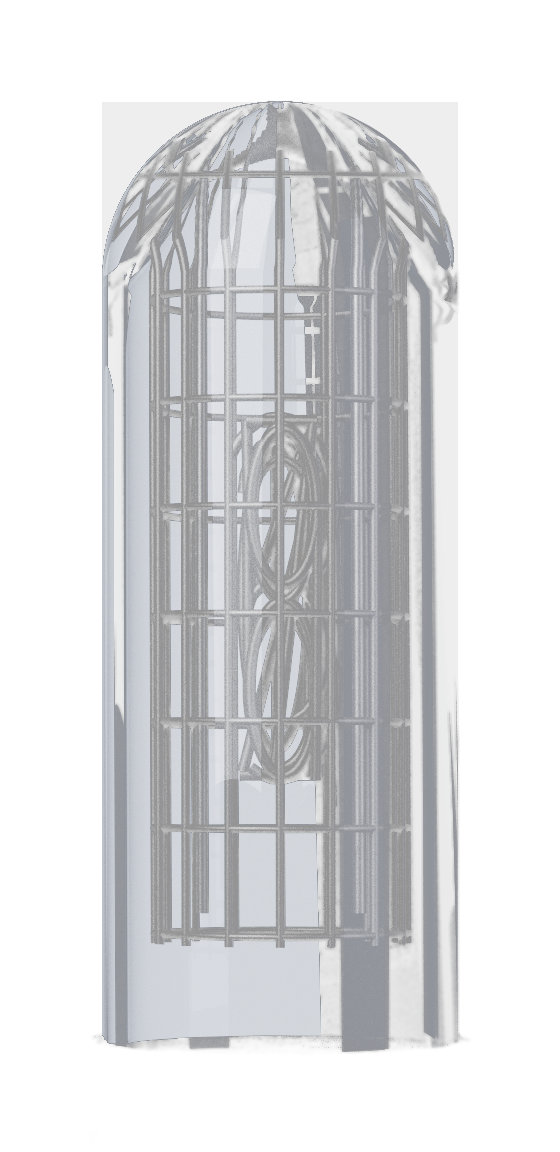
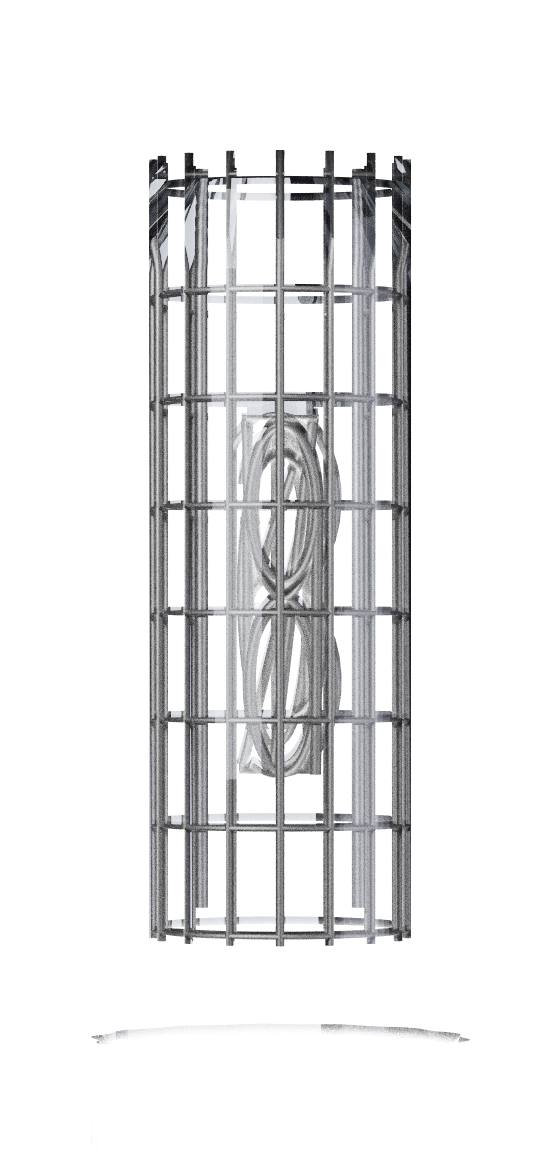
[greeter] Glass is additive, metal is opaque
Вся лампа читалась металлом, потому что альфа шла от яркости: блики стекла тоже
яркие, и они становились непрозрачными. Разделил материалы:

- nixie-tube.png — только железо (сетка, стек катодов, цоколь): обычный оверлей,
  альфа = coverage железа;
- nixie-glass.png + nixie_glass.frag — стекло аддитивно: блик это свет на панели,
  он добавляется к картинке и ничего не перекрывает, поэтому цифра за стеклом
  читается, а кромка и отражения видны;
- пассы: beauty (1024 spp), glass-only (512 spp), две плоские coverage-маски
  (64 spp); генераторы в scripts/dev/nixie-sprite/.

diff --git a/files/quickshell/greeter/lock/NixieTube.qml b/files/quickshell/greeter/lock/NixieTube.qml
@@ -104,4 +104,24 @@ source: "../assets/nixie-tube.png"
 smooth: true
 visible: !root.bulb
 }
+
+// The glass goes on top of the metal, additively: its reflections are light on
+// the pane, and light does not hide the numeral behind it the way an opaque
+// sprite would. (The sprite's alpha carries the metal only.)
+ShaderEffect {
+anchors.fill: parent
+visible: !root.bulb
+property Item source: glassLayer
+property real pStrength: 1.0
+fragmentShader: Qt.resolvedUrl("../shaders/nixie_glass.frag.qsb")
+}
+
+Image {
+id: glassLayer
+visible: false
+width: parent.width
+height: parent.height
+source: "../assets/nixie-glass.png"
+smooth: true
+}
 }

diff --git a/scripts/dev/nixie-sprite/glass_pass.py b/scripts/dev/nixie-sprite/glass_pass.py
@@ -1,0 +1,92 @@
+#!/usr/bin/env python3
+"""The glass alone, lit: the light it adds to the screen (its reflections, its rim).
+The sprite overlays it additively — a reflection adds light, it does not hide what
+is behind it, and treating it as opacity is what made the tube read as metal.
+"""
+
+import sys
+
+import numpy as np
+
+sys.path.insert(0, __file__.rsplit("/", 1)[0])
+import mitsuba as mi
+import render_tube as R
+
+mi.set_variant("llvm_ad_rgb")
+
+
+def main(out, spp=512):
+    shapes, _ = R.build()
+    scene = {
+        "type": "scene",
+        "env": {
+            "type": "constant",
+            "radiance": {"type": "rgb", "value": [0.012, 0.013, 0.017]},
+        },
+        "glass": {"type": "dielectric", "int_ior": 1.52, "ext_ior": 1.0},
+    }
+    v, f = shapes["glass"]
+    ply = R.emit_ply(v, f, "/tmp/ms/mesh/glassonly.ply")
+    scene["glassShape"] = {
+        "type": "ply",
+        "filename": ply,
+        "face_normals": False,
+        "bsdf": scene["glass"],
+    }
+
+    def softbox(origin, target, size, rad):
+        T = mi.ScalarTransform4f.look_at(
+            origin=origin, target=target, up=[0, 1, 0]
+        ) @ mi.ScalarTransform4f.scale([size[0], size[1], 1.0])
+        return {
+            "type": "rectangle",
+            "to_world": T,
+            "emitter": {
+                "type": "area",
+                "radiance": {"type": "rgb", "value": rad},
+            },
+        }
+
+    scene["key"] = softbox(
+        [-120, 150, 210], [0, 0, 0], [90, 130], [7.0, 7.3, 7.8]
+    )
+    scene["fill"] = softbox(
+        [190, 40, 120], [0, 0, 0], [70, 110], [2.0, 2.1, 2.4]
+    )
+    scene["rim"] = softbox(
+        [-60, -40, -170], [0, 0, 0], [80, 120], [1.8, 1.9, 2.2]
+    )
+    scene["sensor"] = {
+        "type": "perspective",
+        "fov": 2 * np.degrees(np.arctan((R.MM_W / 2) / 300.0)),
+        "fov_axis": "x",
+        "to_world": mi.ScalarTransform4f.look_at(
+            origin=[0, 0, 300], target=[0, 0, 0], up=[0, 1, 0]
+        ),
+        "film": {
+            "type": "hdrfilm",
+            "width": 560,
+            "height": 1152,
+            "pixel_format": "rgb",
+            "component_format": "float32",
+            "rfilter": {"type": "box"},
+        },
+        "sampler": {"type": "multijitter", "sample_count": spp},
+    }
+    scene["integrator"] = {
+        "type": "path",
+        "max_depth": 8,
+        "hide_emitters": True,
+    }
+    img = np.array(mi.render(mi.load_dict(scene), spp=spp, seed=5))
+    np.save(out, img)
+    print(
+        "glass pass:",
+        out,
+        img.shape,
+        "mean %.3f max %.2f" % (img.mean(), img.max()),
+    )
+
+
+if __name__ == "__main__":
+    main(sys.argv[1])

diff --git a/scripts/dev/nixie-sprite/post.py b/scripts/dev/nixie-sprite/post.py
@@ -2,9 +2,11 @@
 render, the alpha from the geometry (the sprite is an overlay, so its interior has
 to stay transparent enough for the discharge behind it to read)."""
 
-import numpy as np
 import math
+import os
 import sys
+
+import numpy as np
 from PIL import Image
 
 W, HH = 560, 1152
@@ -185,20 +187,45 @@ def main(beauty, out, exposure=0.55):
     )
     lum = 0.3 * rgb[..., 0] + 0.6 * rgb[..., 1] + 0.1 * rgb[..., 2]
 
-    # The alpha comes from what the render actually shows: a pixel the tube adds
-    # light to is a pixel that hides what is behind it. That is smooth by
-    # construction — no analytic bands to cut through the picture — and it keeps
-    # the sprite's one job: the bright metal and the glass's rim are opaque, the
-    # dark glass is not, so the discharge behind it reads through.
-    al = np.clip(1.0 - np.exp(-3.0 * lum), 0.0, 0.95)
-    # the envelope itself is a little opaque even where it is dark: glass is
-    # something you see, not nothing
-    al = np.maximum(al, glass * 0.07)
+    # The alpha is per material, from two flat coverage passes: the metal (wires,
+    # cage, collar) is opaque, the glass is not. Modulating the glass by its own
+    # brightness keeps its reflections readable while its body stays clear — a
+    # brightness-based alpha alone turned the glass into more metal.
+    hw = (
+        np.load(beauty + "_hw.npy")
+        if os.path.exists(beauty + "_hw.npy")
+        else np.zeros_like(lum)
+    )
+    # The metal: an ordinary overlay, opaque where it is.
+    al = np.clip(hw, 0.0, 0.97)
     img = np.clip(rgb, 0, 1)
     Image.fromarray(
         (np.concatenate([img, al[..., None]], -1) * 255).astype("uint8"),
         "RGBA",
     ).save(out)
+    # The glass, additive: a reflection adds light, it does not hide the numeral
+    # behind it. Treating it as opacity is exactly what made the tube read as metal.
+    gp = np.load("/tmp/ms/glass.npy")
+    gp = np.maximum(gp, 0.0)
+    g = aces(gp * exposure)
+    g = np.where(
+        g <= 0.0031308,
+        g * 12.92,
+        1.055 * np.power(np.maximum(g, 1e-6), 1 / 2.4) - 0.055,
+    )
+    g = np.clip(g, 0, 1)
+    Image.fromarray(
+        (
+            np.concatenate([g, np.ones(g.shape[:2] + (1,), np.float32)], -1)
+            * 255
+        ).astype("uint8"),
+        "RGBA",
+    ).save(out.replace("nixie-tube", "nixie-glass"))
+    print(
+        "saved",
+        out.replace("nixie-tube", "nixie-glass"),
+        "| стекло: max %.2f mean %.3f" % (g.max(), g.mean()),
+    )
     print(
         "saved",
         out,

diff --git a/scripts/dev/nixie-sprite/masks.py b/scripts/dev/nixie-sprite/masks.py
@@ -1,0 +1,81 @@
+#!/usr/bin/env python3
+"""Coverage masks for the tube sprite: what is metal and what is glass, rendered
+flat and separately, so the sprite's alpha can be per material instead of per
+brightness (which turned the glass's own reflections into metal)."""
+
+import sys
+
+import numpy as np
+
+sys.path.insert(0, __file__.rsplit("/", 1)[0])
+import mitsuba as mi
+import render_tube as R
+
+mi.set_variant("llvm_ad_rgb")
+
+
+def coverage(only, out, spp=64, W=560, HH=1152):
+    shapes, wires = R.build()
+    white = {
+        "type": "diffuse",
+        "reflectance": {"type": "rgb", "value": [1.0, 1.0, 1.0]},
+    }
+    scene = {
+        "type": "scene",
+        "env": {
+            "type": "constant",
+            "radiance": {"type": "rgb", "value": [1.0, 1.0, 1.0]},
+        },
+    }
+    for name, (v, f) in shapes.items():
+        if only == "hardware" and name == "glass":
+            continue
+        ply = R.emit_ply(v, f, f"/tmp/ms/mesh/mask_{name}.ply")
+        scene[name] = {
+            "type": "ply",
+            "filename": ply,
+            "face_normals": False,
+            "bsdf": white,
+        }
+    for i, (path, r) in enumerate(wires):
+        if only == "glass":
+            continue
+        v, f = R.sweep(path, r)
+        ply = R.emit_ply(v, f, f"/tmp/ms/mesh/mask_wire{i}.ply")
+        scene[f"wire{i}"] = {
+            "type": "ply",
+            "filename": ply,
+            "face_normals": False,
+            "bsdf": white,
+        }
+    scene["sensor"] = {
+        "type": "perspective",
+        "fov": 2 * np.degrees(np.arctan((R.MM_W / 2) / 300.0)),
+        "fov_axis": "x",
+        "to_world": mi.ScalarTransform4f.look_at(
+            origin=[0, 0, 300], target=[0, 0, 0], up=[0, 1, 0]
+        ),
+        "film": {
+            "type": "hdrfilm",
+            "width": W,
+            "height": HH,
+            "pixel_format": "rgb",
+            "component_format": "float32",
+            "rfilter": {"type": "box"},
+        },
+        "sampler": {"type": "independent", "sample_count": spp},
+    }
+    scene["integrator"] = {
+        "type": "path",
+        "max_depth": 3,
+        "hide_emitters": True,
+    }
+    img = np.array(mi.render(mi.load_dict(scene), spp=spp, seed=3))
+    m = np.clip(img.mean(axis=2), 0, 1)
+    np.save(out, m)
+    print(only, "coverage:", out, "mean %.3f max %.2f" % (m.mean(), m.max()))
+
+
+if __name__ == "__main__":
+    coverage("hardware", sys.argv[1] + "_hw.npy")
+    coverage("glass", sys.argv[1] + "_glass.npy")

diff --git a/scripts/dev/nixie-sprite/render_tube.py b/scripts/dev/nixie-sprite/render_tube.py
@@ -264,7 +264,16 @@ def build():
     return shapes, wires
 
 
-def main(out, spp=1024, W=560, HH=1152):
+def build_scene(
+    only=None, flat=False, W=560, HH=1152, spp=1024, out="/tmp/ms/beauty"
+):
+    """Render the tube.
+
+    only=None renders the full beauty pass; "hardware" and "glass" keep just that
+    part of the scene, and with flat=True every material is a white diffuse lit by
+    a uniform environment — those two passes are the coverage masks the sprite's
+    alpha is assembled from (see masks.py).
+    """
     shapes, wires = build()
     scene = {}
     scene["type"] = "scene"
@@ -379,6 +388,10 @@ def main(out, spp=1024, W=560, HH=1152):
         float(np.median(a[a.shape[0] // 2])),
     )
     return a
+
+
+def main(out="/tmp/ms/beauty"):
+    build_scene(out=out)
 
 
 if __name__ == "__main__":
